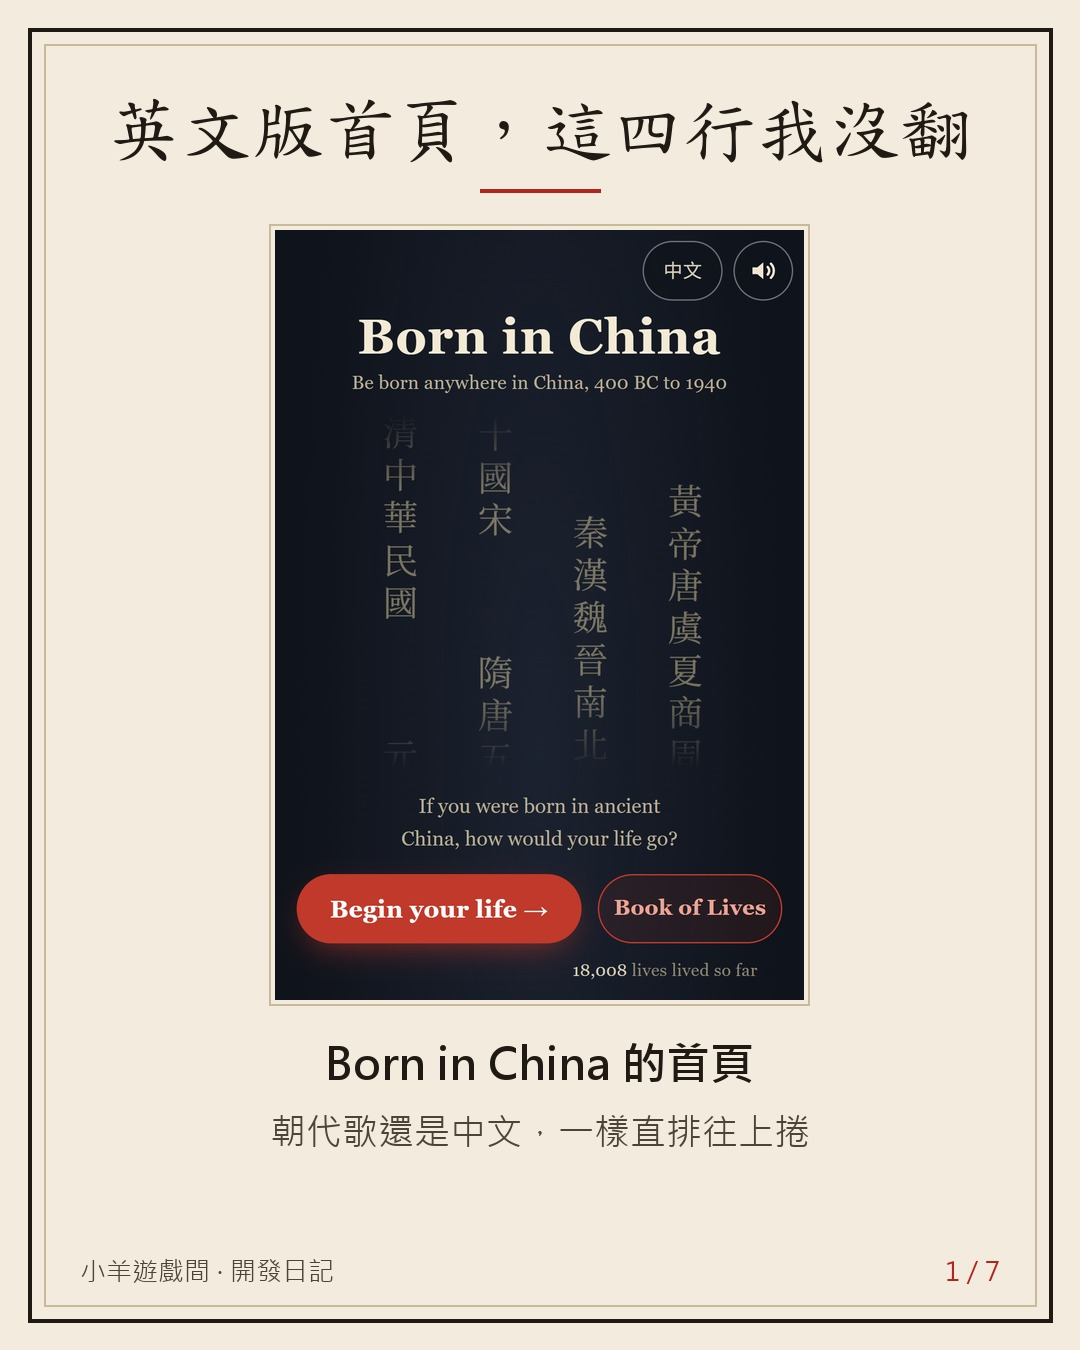
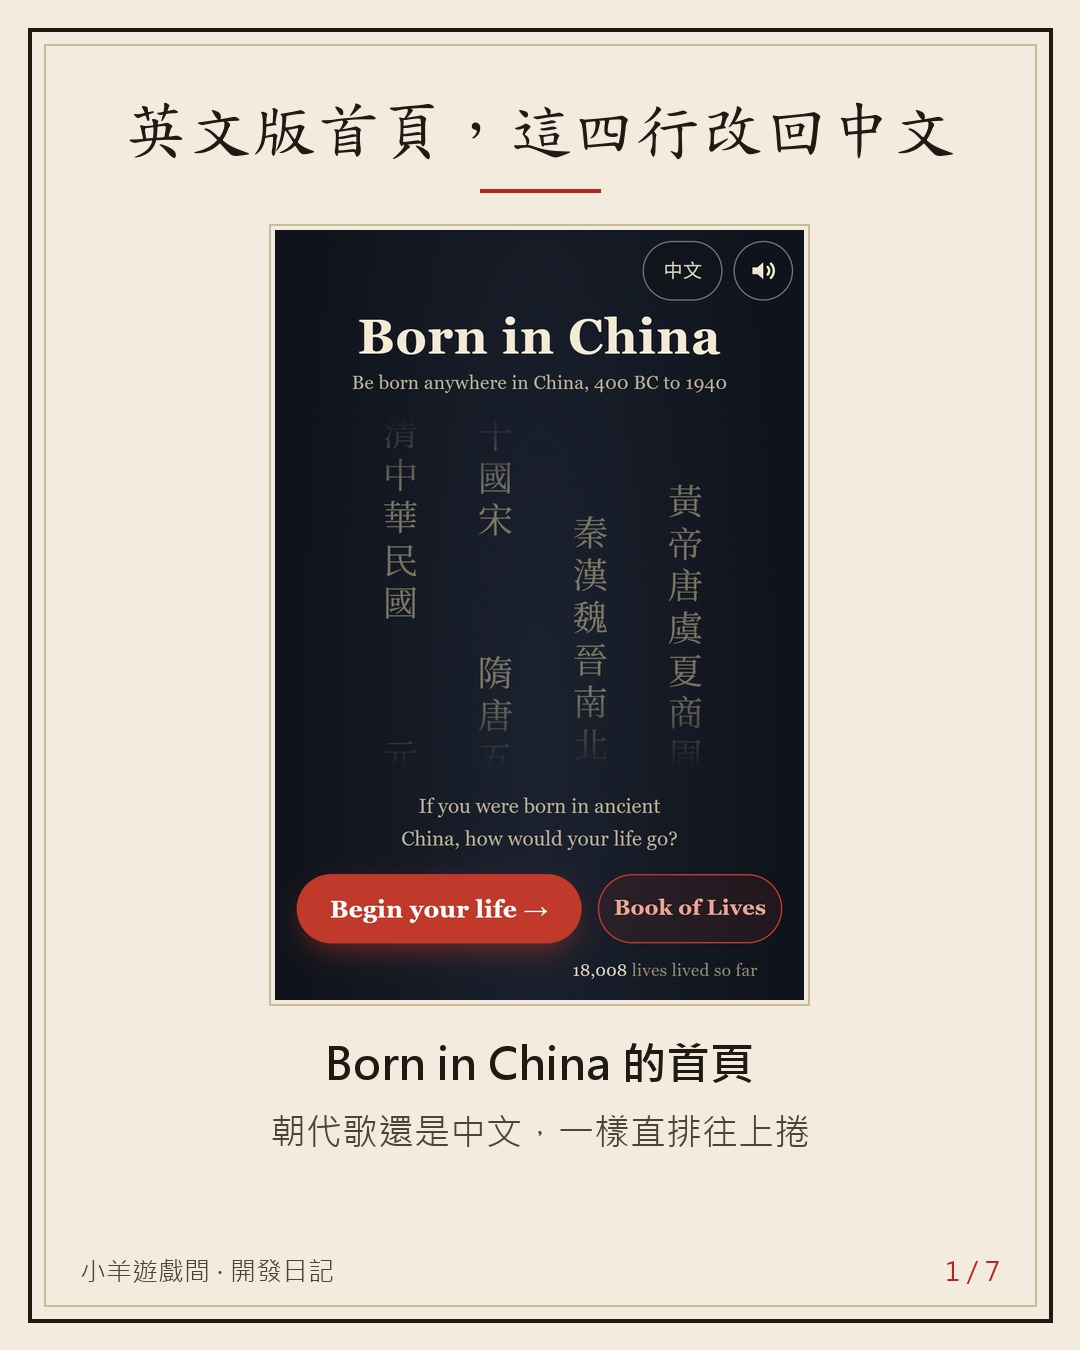
vault backup: 2026-11-05 05:39:46

Changed region(s): [[0.4583, 0.0622, 0.9167, 0.1244], [0.0917, 0.0622, 0.4278, 0.1244]]

diff --git a/Projects/auto promotion/posts/44.md b/Projects/auto promotion/posts/44.md
@@ -3,17 +3,16 @@ id: 44
 type: devnote
 game: china_life
 topic: "生在中國：首頁朝代歌（四行直排往上捲）英文版先翻成英文橫排不動（10/23，高度 260→102px、最長一行 7 字→51 字母、唐虞的 Tang 和唐朝的 Tang 撞名），10/25 owner「英文版，首頁的動畫，也顯示中文的朝代，也一樣上下捲動」→ 14:05 先寫會紅的檢查 G200、14:25 上線（+5/−7）；回顧 10/16 一天改四次（C3 選定、26–34 秒一圈、起點錯開 −3/−11/−19/−27 秒、iPhone 首屏 360→260px、寬 ≥860 八行）與無限動畫讓測試的 finish() 丟例外"
-status: 草稿
+status: 待發
 created: 2026-11-05 21:32
-score:
+score: 8.2
 ---
-# 英文版首頁，有四行字我決定不翻
+# 英文版首頁，有四行字我翻了又改回來
 
 ## Threads
 ### 1
-《生在中國》英文版上線那天，首頁有四行字，我先翻成了英文。
+《生在中國》英文版上線 9 小時後，我把首頁四行英文改回中文。
 
-兩天後又改回中文。
 翻譯沒有錯。
 是翻完之後，那四行字原本在做的事情不見了 👇
 ![[44/01.jpg]]
@@ -31,9 +30,10 @@ score:
 ### 3
 10/23 做英文版骨架時，我們照「每個字串都要有英文」的規則，把它翻了：
 
-Yellow Emperor, Tang, Yu, Xia, Shang, Zhou
-Qin, Han, Wei, Jin, Northern and Southern Dynasties
+Yuan, Ming, Qing, Republic of China
 ……
+Qin, Han, Wei, Jin, Northern and Southern Dynasties
+Yellow Emperor, Tang, Yu, Xia, Shang, Zhou
 
 最長那行，中文 7 個字，英文 51 個字母。
 直排放不下，只好改成四行橫排、不會動。
@@ -43,24 +43,23 @@ Qin, Han, Wei, Jin, Northern and Southern Dynasties
 還有一個寫這篇時才注意到的小坑：
 
 「唐虞」的唐是唐堯，不是唐朝。
-但英文第一行有 Tang，第三行 Sui, Tang 又一個 Tang。
+但英文最後一行 Yellow Emperor, Tang, Yu 有一個 Tang，第二行 Sui, Tang 又一個 Tang。
 看不懂中文的讀者，會看到兩個一樣的 Tang。
 
 翻得沒錯，但在英文裡反而多了一個誤會。
 ![[44/04.jpg]]
 ### 5
-10/25 我看了英文首頁，跟 AI 說：
+10/25 清晨 5 點（美西）英文版上線，下午我看了英文首頁，跟 AI 說：
 「英文版，首頁的動畫，也顯示中文的朝代，也一樣上下捲動」
 
-AI 團隊的做法，跟之前每張單一樣：先寫一條會紅的檢查。
+AI 團隊照老規矩：先寫一條「現在一定不會過」的檢查，等它變綠才算改好。
 14:05 檢查寫好：英文首頁每一行要是中文原句、標記這段是中文、要在動、行數跟中文頁一樣（手機和桌機各量一次）。
 14:18 前端交件，14:25 上線。
-程式只改了 12 行（+5 / −7），大部分是把當初「英文就橫排不動」的那段樣式刪掉。
+程式只改了 12 行（+5 / −7），其中一半是把當初「英文就橫排不動」那 6 行樣式刪掉。
 ![[44/07.jpg]]
 ### 6
-回頭看，這四行在 10/16 那一天就改了四次：
-15:47 首頁改版、15:48 四行起點錯開（−3／−11／−19／−27 秒）、17:45 為了讓 iPhone 不用捲就看到出生鍵，從 360px 縮到 260px、18:13 寬螢幕重複成 8 行。
-晚上還讓自動測試卡住一次：它會把畫面上所有動畫「快轉到結束」，可是這四行是無限捲動，沒有結束，一快轉就丟錯誤，後面的檢查都沒跑完。
+回頭看，這四行在 10/16 就改了四次（卡 5、卡 6）。
+晚上還讓自動測試卡住一次：它會把畫面上所有動畫「快轉到結束」，可是這四行是無限捲動，沒有結束，一快轉就丟錯誤，整輪快轉停在半路，後面的動畫沒跑完。
 
 一個「花紋」，花了這麼多力氣 XD
 我學到的是：做多語版，不是每個字都要翻。有些字是拿來看的。
@@ -74,12 +73,13 @@ AI 團隊的做法，跟之前每張單一樣：先寫一條會紅的檢查。
 下一篇開發日記，再寫寫英文版其他「翻還是不翻」的決定。
 
 ## Instagram
-《生在中國》英文版的首頁，有四行字我先翻成英文，兩天後又改回中文。
+《生在中國》英文版上線 9 小時後，我把首頁四行字改回中文。
 
 那是首頁的「朝代歌」：黃帝唐虞夏商周……四行直排、各自往上捲。翻成英文後，最長一行從 7 個字變 51 個字母，只能橫排不動；「唐虞」的 Tang 還跟唐朝的 Tang 撞名。
 
 10/25 改回中文：先寫一條會紅的檢查，20 分鐘後上線，程式只改 12 行。
 做多語版，不是每個字都要翻，有些字是拿來看的。
+下一篇開發日記，再寫英文版其他「翻還是不翻」的決定。
 
 你看英文版的中國遊戲時，想看到漢字嗎？留言跟我說～
 連結在主頁
@@ -88,9 +88,9 @@ AI 團隊的做法，跟之前每張單一樣：先寫一條會紅的檢查。
 卡片：![[44/01.jpg]] ![[44/02.jpg]] ![[44/03.jpg]] ![[44/04.jpg]] ![[44/05.jpg]] ![[44/06.jpg]] ![[44/07.jpg]]
 
 ## Facebook
-📜 英文版首頁，有四行字我決定不翻
+📜 英文版首頁，有四行字我翻了又改回來
 
-《生在中國》英文版上線那天，首頁有四行字，我先翻成了英文。兩天後又改回中文。翻譯沒有錯，是翻完之後，那四行字原本在做的事不見了。
+《生在中國》英文版上線那天清晨，首頁有四行字是英文（10/23 做英文版骨架時翻的）。9 個小時後，我把它們改回中文。翻譯沒有錯，是翻完之後，那四行字原本在做的事不見了。
 
 🌊 那四行是什麼
 首頁的「朝代歌」：黃帝唐虞夏商周／秦漢魏晉南北朝／隋唐五代十國宋／元明清中華民國。
@@ -99,16 +99,17 @@ AI 團隊的做法，跟之前每張單一樣：先寫一條會紅的檢查。
 🔤 翻成英文之後（10/23）
 照「每個字串都要有英文」的規則翻了：Yellow Emperor, Tang, Yu, Xia, Shang, Zhou……
 最長那行中文 7 個字，英文 51 個字母，直排放不下，只好改成四行橫排、不會動，那塊從 260px 高縮成 102px，變成一段清單。
-寫這篇時才發現還有一個小坑：「唐虞」的唐是唐堯，不是唐朝；英文第一行一個 Tang，第三行又一個 Tang，看不懂中文的人會以為是同一個。
+寫這篇時才發現還有一個小坑：「唐虞」的唐是唐堯，不是唐朝；英文最後一行一個 Tang，第二行又一個 Tang，看不懂中文的人會以為是同一個。
 
 ⏱ 改回中文（10/25）
-我看了英文首頁，跟 AI 說：「英文版，首頁的動畫，也顯示中文的朝代，也一樣上下捲動」。
-14:05 先寫好一條會紅的檢查（每行是中文原句、標記這段是中文、要在動、行數跟中文頁一樣），14:18 前端交件，14:25 上線。程式改 12 行（+5 / −7），大多是刪掉「英文就橫排不動」那段樣式。
+10/25 清晨 5 點（美西）英文版上線，下午我看了英文首頁，跟 AI 說：「英文版，首頁的動畫，也顯示中文的朝代，也一樣上下捲動」。
+14:05 先寫好一條會紅的檢查（每行是中文原句、標記這段是中文、要在動、行數跟中文頁一樣），14:18 前端交件，14:25 上線。程式改 12 行（+5 / −7），其中一半是刪掉「英文就橫排不動」那 6 行樣式。
 
 🔁 這四行在 10/16 一天改了四次
-首頁改版、四行起點錯開、為了 iPhone 首屏從 360px 縮到 260px、寬螢幕重複成 8 行。晚上還讓自動測試卡住一次：測試會把所有動畫快轉到結束，但無限捲動沒有結束，一快轉就丟錯誤。一個花紋花了這麼多力氣 XD
+首頁改版、四行起點錯開、為了 iPhone 首屏從 360px 縮到 260px、寬螢幕重複成 8 行。晚上還讓自動測試卡住一次：測試會把所有動畫快轉到結束，但無限捲動沒有結束，一快轉就丟錯誤，整輪快轉停在半路。一個花紋花了這麼多力氣 XD
 
 我學到的：做多語版，不是每個字都要翻，有些字是拿來看的。有錯請指正 :p
+下一篇開發日記，再寫英文版其他「翻還是不翻」的決定。
 
 你看英文版的中國遊戲時，會希望看到漢字，還是全部翻成英文？
 
@@ -119,6 +120,7 @@ AI 團隊的做法，跟之前每張單一樣：先寫一條會紅的檢查。
 ## Sources
 - china_life git 9ee0dfc（10/23 15:54，§98 P1 英文版骨架 #149）— 英文 UI 字串表，data/text/en/ui/start_text.js 的英文朝代歌四行
 - china_life git 9e5681e diff styles/lang_en.css — 被刪掉的「朝代歌：四行橫排、靜態置中（不捲動）」樣式；4 files, +5/−7
+- china_life git 9c4e859（10/25 05:02 EN_LAUNCHED=true，英文版上線）
 - china_life git ed88602 14:05、9e5681e 14:18、b5bd25c／c839c2f 14:25（10/25）— G200 檢查、FE #200、land
 - docs/design.md §98.14（FE #200）— owner 原話「英文版，首頁的動畫，也顯示中文的朝代，也一樣上下捲動」；tests/ui_acceptance.js G200（390×844、1280×800；中文原句、lang zh-Hant、在動、行數同中文）
 - docs/design.md §23（約 782–794 行）— C3、四行字、26–34 秒一圈、−3／−11／−19／−27 秒、360→260px（iPhone Safari 約 667px）、≥860px 8 行
@@ -130,5 +132,7 @@ AI 團隊的做法，跟之前每張單一樣：先寫一條會紅的檢查。
 ## 打磨紀錄
 | 回合 | 1 | 2 | 3 | 4 | 5 | 6 | 7 | 8 | 9 | 10 | 平均 | 主要修改 |
 |---|---|---|---|---|---|---|---|---|---|---|---|---|
+| 1 | 7 | 9 | 8 | 8 | 8 | 6 | 7 | 8 | 8 | 10 | 7.9 | 上線日期改 10/25 清晨（9 小時後改回）、英文行序、第 6 則拿掉時間戳、IG/FB 補下一篇預告、卡 6 小字 |
+| 2 | 7 | 9 | 8 | 8 | 8 | 8 | 8 | 8 | 8 | 10 | 8.2 | 達標；鉤子合成一行、卡 1 標題改「改回中文」、「一半」6 行樣式、快轉停在半路、美西時間、白話說明檢查 |
 
 ## 發文紀錄

diff --git a/Projects/auto promotion/posts/36.md b/Projects/auto promotion/posts/36.md
@@ -3,7 +3,7 @@ id: 36
 type: devnote
 game: hub
 topic: "小羊遊戲間：今日挑戰每天 5 款怎麼挑——每天 08:00 換期、所有人同一組；至少 1 款自家、外站 14 天內不重複、同類型最多 2、同作者最多 1、只挑手機電腦都能玩的；天地會（一局長、要多人）不進挑戰後自家只剩 2 款，「至少 1 款自家」和「14 天不重複」打架 → 不重複只管外站款（#1 裁決）；11/1 Dice Wars 成第 4 款自家、3 款輪流；10/31 網站審查第 9 條「主題跟遊戲無關」→ 11/1 起每期至少 2 款屬當天主題的類型（#31）；湊不滿依序放寬 14 天 → 主題 → 類型 → 作者、一定 5 款；驗收證偽（放天地會進去 → 印「2026-11-02：有 tiandihui」、拿掉作者上限 → 「作者 a16 2 款」）；照現在名單排 120 天：外站 480 款 0 重複、自家 41／40／39；成績卡 5/5 才能分享（owner「分享成績卡 ，5個都完成，才能分享」）、只放名字、80 字英文／40 字中文長名字檢查（今天的名字都太短）；11/4 下廚週三"
-status: 發文中 2026-11-05 21:24
+status: 已發
 created: 2026-11-03 21:35
 score: 8.2
 ---
@@ -143,3 +143,6 @@ score: 8.2
 | 2 | 8 | 9 | 7 | 8 | 8 | 9 | 8 | 8 | 7 | 10 | 8.2 | 過門檻；再小修：「外站」加解釋、第 5 則改成我做的事、拿掉「教訓：」標籤、第 7 則先列好玩的遊戲、去掉重複圖與重複 orz |
 
 ## 發文紀錄
+- Threads：2026-11-05 21:28 https://www.threads.com/@csiesheep.games/post/DfXI606G0Ts （8 則 7 圖；第 7 則與 IG／FB 把寫稿時的「明天 11/4 下廚週三、從明天起」改成「每天早上 9 點貼、明天 11/6 職場週五」，因為 11/3 寫的稿 11/5 才發）
+- Instagram：2026-11-05 21:31 https://www.instagram.com/p/DfXJRMDm6j1/ （輪播 7 張，Original，AI 標籤關）
+- Facebook 小羊遊戲間：2026-11-05 21:33 已發（相簿 7 張，所有人，AI 標籤關；連結見粉專貼文列表）

diff --git a/Projects/auto promotion/2026-11-05.md b/Projects/auto promotion/2026-11-05.md
@@ -207,3 +207,6 @@
 | 21:29 | promo-post-devnote-2120 | 發文 | Threads #36 8 則 7 圖（第 7 則把過期的「明天 11/4」改成「明天 11/6 職場週五」） | https://www.threads.com/@csiesheep.games/post/DfXI606G0Ts |
 | 21:31 | promo-post-devnote-2120 | 發文 | Instagram #36 輪播 7 張 | https://www.instagram.com/p/DfXJRMDm6j1/ |
 | 21:33 | promo-producer | 進度 | 開發日記 #44 草稿：生在中國首頁朝代歌英文版翻了又改回中文（7 張卡已畫）；送 judge 打磨 |  |
+| 21:34 | promo-post-devnote-2120 | 發文 | Facebook 小羊遊戲間 #36 相簿 7 張（已發，連結見粉專） |  |
+| 21:34 | promo-post-devnote-2120 | 完成 | #36 三平台發完；帳號：開始 IG/Threads 都在 csiesheep.games、FB 個人，結束 IG/Threads 留在 csiesheep.games、FB 切回個人檔案；過期日期句已改成 11/6 |  |
+| 21:36 | promo-producer | 完成 | 開發日記 #44「英文版首頁，有四行字我翻了又改回來」待發（posts/44.md，7 張卡，打磨 2 輪 7.9→8.2）；存貨：分享卡 2、Reel 3、貼文 熱門 4／開發日記 4、鬼唱詩 待發 2／待審 1／要修改 0（暫停到 11/6 08:00） |  |
